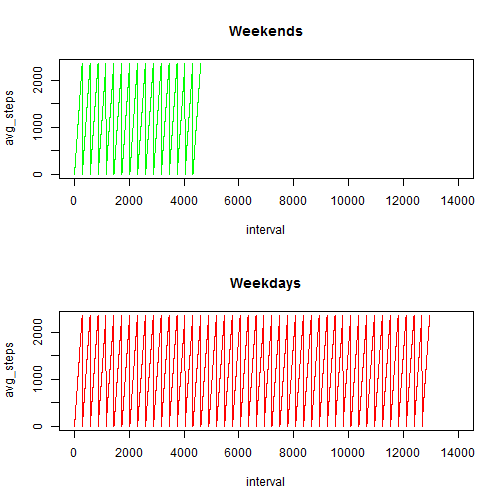
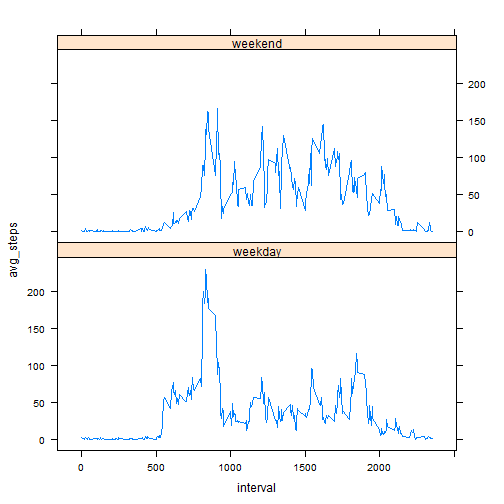
using lattice

diff --git a/peer-assessment1.html b/peer-assessment1.html
@@ -206,6 +206,7 @@ hr {
 <pre><code class="r">library(dplyr)
 library(ggplot2)
 library(lubridate)
+#setwd(&quot;c://temp/coursework-reproduceabledata/project1&quot;)
 dat &lt;- read.csv(&quot;activity.csv&quot;)
 result &lt;- dat %&gt;% group_by(date) %&gt;% summarize (total_steps = sum(steps,na.rm = TRUE ))
 </code></pre>
@@ -268,9 +269,9 @@ g3+geom_histogram(binwidth = 3000)+ggtitle(&quot;Count of Total no of Steps Each
 median_tot_steps_nafil &lt;- median(result3$total_steps)
 </code></pre>
 
-<p>mean total steps taken per day with NAs filled in  is 1.0766189 &times; 10<sup>4</sup></p>
+<p>mean total steps taken per day with NAs filled in  is 10766.19</p>
 
-<p>median total seps taken per day with NAs filled in  is 1.0766189 &times; 10<sup>4</sup></p>
+<p>median total seps taken per day with NAs filled in  is 10766.19</p>
 
 <p>###What is the impact of imputing missing data on the estimates of the total daily number of steps?</p>
 
@@ -279,16 +280,12 @@ median_tot_steps_nafil &lt;- median(result3$total_steps)
 <p>##Are there differences in activity patterns between weekdays and weekends?</p>
 
 <pre><code class="r">new1 &lt;- mutate(new, day = ifelse(wday(new$date,label=TRUE) %in% c(&quot;Sat&quot;, &quot;Sun&quot;), &quot;weekend&quot;, &quot;weekday&quot;))
-result4 &lt;- new1[new1$day == &quot;weekday&quot;,]
-result5 &lt;- new1[new1$day == &quot;weekend&quot;,]
-
-#plot avg steps for each interval in respect of weekday and weeend
-par(mfrow = c(2,1))
-plot(result5$interval, result5$avg_steps, type=&quot;l&quot;,xlim=c(0,14000),col=&quot;green&quot;, main = &quot;Weekends&quot;,xlab = &quot;interval&quot;, ylab = &quot;avg_steps&quot;)
-plot(result4$interval, result4$avg_steps, type=&quot;l&quot;,xlim=c(0,14000),col=&quot;red&quot;, main = &quot;Weekdays&quot;,xlab = &quot;interval&quot;, ylab = &quot;avg_steps&quot;)
+result4 &lt;- new1 %&gt;% group_by(day,interval) %&gt;% summarize(avg_steps = mean(steps))
+library(lattice)
+xyplot(avg_steps~interval|as.factor(day),data =result4,layout=c(1,2),type=&quot;l&quot;)
 </code></pre>
 
[2 lines of base64/hex data omitted]
 
 </body>
 

diff --git a/peer-assessment1.md b/peer-assessment1.md
@@ -9,6 +9,7 @@ output: html_document
 library(dplyr)
 library(ggplot2)
 library(lubridate)
+#setwd("c://temp/coursework-reproduceabledata/project1")
 dat <- read.csv("activity.csv")
 result <- dat %>% group_by(date) %>% summarize (total_steps = sum(steps,na.rm = TRUE ))
 ```
@@ -80,9 +81,9 @@ mean_tot_steps_nafil <- mean(result3$total_steps)
 median_tot_steps_nafil <- median(result3$total_steps)
 ```
 
-mean total steps taken per day with NAs filled in  is 1.0766189 &times; 10<sup>4</sup>
+mean total steps taken per day with NAs filled in  is 10766.19
 
-median total seps taken per day with NAs filled in  is 1.0766189 &times; 10<sup>4</sup>
+median total seps taken per day with NAs filled in  is 10766.19
 
 ###What is the impact of imputing missing data on the estimates of the total daily number of steps?
 
@@ -93,13 +94,9 @@ Mean and median values have increased after the NAs were filled in with interval
 
 ```r
 new1 <- mutate(new, day = ifelse(wday(new$date,label=TRUE) %in% c("Sat", "Sun"), "weekend", "weekday"))
-result4 <- new1[new1$day == "weekday",]
-result5 <- new1[new1$day == "weekend",]
-
-#plot avg steps for each interval in respect of weekday and weeend
-par(mfrow = c(2,1))
-plot(result5$interval, result5$avg_steps, type="l",xlim=c(0,14000),col="green", main = "Weekends",xlab = "interval", ylab = "avg_steps")
-plot(result4$interval, result4$avg_steps, type="l",xlim=c(0,14000),col="red", main = "Weekdays",xlab = "interval", ylab = "avg_steps")
+result4 <- new1 %>% group_by(day,interval) %>% summarize(avg_steps = mean(steps))
+library(lattice)
+xyplot(avg_steps~interval|as.factor(day),data =result4,layout=c(1,2),type="l")
 ```
 
 ![plot of chunk unnamed-chunk-6](figure/unnamed-chunk-6-1.png) 
